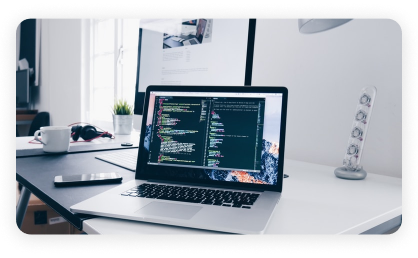
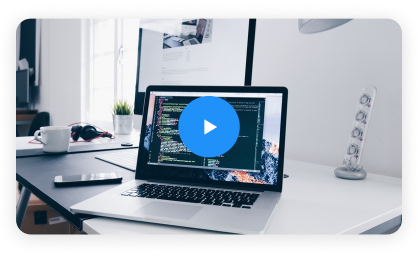
add css for phone

Changed region(s): [[0.4043, 0.3721, 0.5909, 0.6202]]

diff --git a/index.html b/index.html
@@ -24,13 +24,13 @@
                 <a href="#"><img class="logo" src="img/logo.png" alt="Logo"></a>
             <ul class="icon">
                 <li class="icon-li">
-                    <a class="icon-link" href="#"><i class="fab fa-twitter fa-lg"></i></a>
+                    <a class="icon-link" href="#"><i class="fab fa-twitter fa-2x"></i></a>
                 </li>
                 <li class="icon-li">
-                    <a class="icon-link" href="#"><i class="fab fa-facebook-square fa-lg"></i></a>
+                    <a class="icon-link" href="#"><i class="fab fa-facebook-square fa-2x"></i></a>
                 </li>
                 <li class="icon-li">
-                    <a class="icon-link" href="#"><i class="fab fa-linkedin fa-lg"></i></a>
+                    <a class="icon-link" href="#"><i class="fab fa-linkedin fa-2x"></i></a>
                 </li>
             </ul>
             <a href="#"><i class="fas fa-bars"></i></a>
@@ -38,20 +38,22 @@
         <div class="introduction">
             <h1>The best products 
                 start with Figma</h1>
-            <h4>Most calendars are designed for teams. Slate is designed 
+            <h4 class="full">Most calendars are designed for teams. Slate is designed 
                 for freelancers</h4>
-            <h4 class="introdution-phone">Most calendars are designed for teams</h4>
+            <h4 class="small">Most calendars are designed for teams</h4>
             <button type="button">Try For Free</button>
         </div>
     </header>
     <main>
         <section class="peculiarities">
             <h2>Features</h2>
-            <h4>Most calendars are designed for teams.<br> 
-                Slate is designed for freelancers</h4>           
+            <h4 class="full">Most calendars are designed for teams.<br> 
+                Slate is designed for freelancers</h4>
+            <h4 class="small">Most calendars are designed for teams</h4>
+            <img class="minivideo" src="img/minivideo.png" alt="video features">           
             <ul class="features">
-                <li class="fetures-paragraph">
-                    <i class="fas fa-shapes"></i>
+                <li class="features-paragraph">
+                    <i class="fas fa-shapes fa-2x"></i>
                     <h3>OpenType features 
                         Variable fonts</h3>
                     <p>Slate helps you see how 
@@ -59,16 +61,16 @@
                         to work to reach your 
                         financial goal.</p>
                 </li>
-                <li class="fetures-paragraph">
-                    <i class="fas fa-pen"></i>
+                <li class="features-paragraph">
+                    <i class="fas fa-pen fa-2x"></i>
                     <h3>Design with real data</h3>
                     <p>Slate helps you see how 
                         many more days you need 
                         to work to reach your 
                         financial goal.</p>
                 </li>
-                <li class="fetures-paragraph">
-                    <i class="fas fa-paint-brush"></i>
+                <li class="features-paragraph">
+                    <i class="fas fa-paint-brush fa-2x"></i>
                     <h3>Fastest way to 
                         take action</h3>
                     <p>Slate helps you see how 
@@ -76,8 +78,8 @@
                         to work to reach your 
                         financial goal.</p>
                 </li>
-            </ul>>
-            <img src="img/video.png" alt="video features">
+            </ul>
+            <img class="video" src="img/video.png" alt="video features">
         </section>
     </main>
     <footer>

diff --git a/index.css b/index.css
@@ -54,7 +54,7 @@ header {
     justify-self: center; 
 }
 
-i.fa-bars {
+i.fa-bars, .minivideo, .small {
     display: none;
 }
 
@@ -88,10 +88,6 @@ h4 {
     line-height: 40px;
 }
 
-.introdution-phone {
-    display: none;
-}
-
 button {
     margin-top: 5.6rem;
     background-color: #2091F9;
@@ -115,6 +111,11 @@ button:active {
     margin-top: 10rem;
 }
 
+h2 {
+    line-height: 3.5rem;
+    font-size: 3rem;
+}
+
 .features {
     margin-top: 6rem;
     list-style: none;
@@ -122,12 +123,20 @@ button:active {
     justify-content: center;
 }
 
-.fetures-paragraph {
-    width: 14rem;
+.features-paragraph {
+    width: 13rem;
 }
 
-.fetures-paragraph:not(:last-child) {
+.features-paragraph:not(:last-child) {
     margin-right: 5rem;
+}
+
+.features-paragraph i {
+    color:#2091F9;
+}
+
+.features-paragraph h3 {
+    font-size: 1.25rem;
 }
 
 @media screen and (max-width: 480px) {
@@ -144,12 +153,19 @@ button:active {
         justify-content: space-around;
     }
 
-    .menu, .icon, h4 {
+    .menu, .icon, .full, .video {
         display: none;
     }
 
-    i.fa-bars {
+    i.fa-bars, .small, .minivideo {
         display: inline-block;
+    }
+
+    .small {
+        max-width: 19rem;
+    }
+
+    i.fa-bars {
         color:#FFFFFF;
     }
     
@@ -170,10 +186,18 @@ button:active {
         margin-top: 8.4rem;
     }
 
-    .introdution-phone {
-        display: inline-block;
-        max-width: 19rem;
-        margin: 0 auto;
-        margin-top: 2rem;
+    .minivideo {
+        width: 100%;
+        height: auto;
+        margin-top: 4rem;
+    }
+
+    .features {
+        flex-direction: column;
+        padding-inline-start: 0;
+    }
+
+    .features .features-paragraph {
+        margin: 4rem auto;
     }
 }
